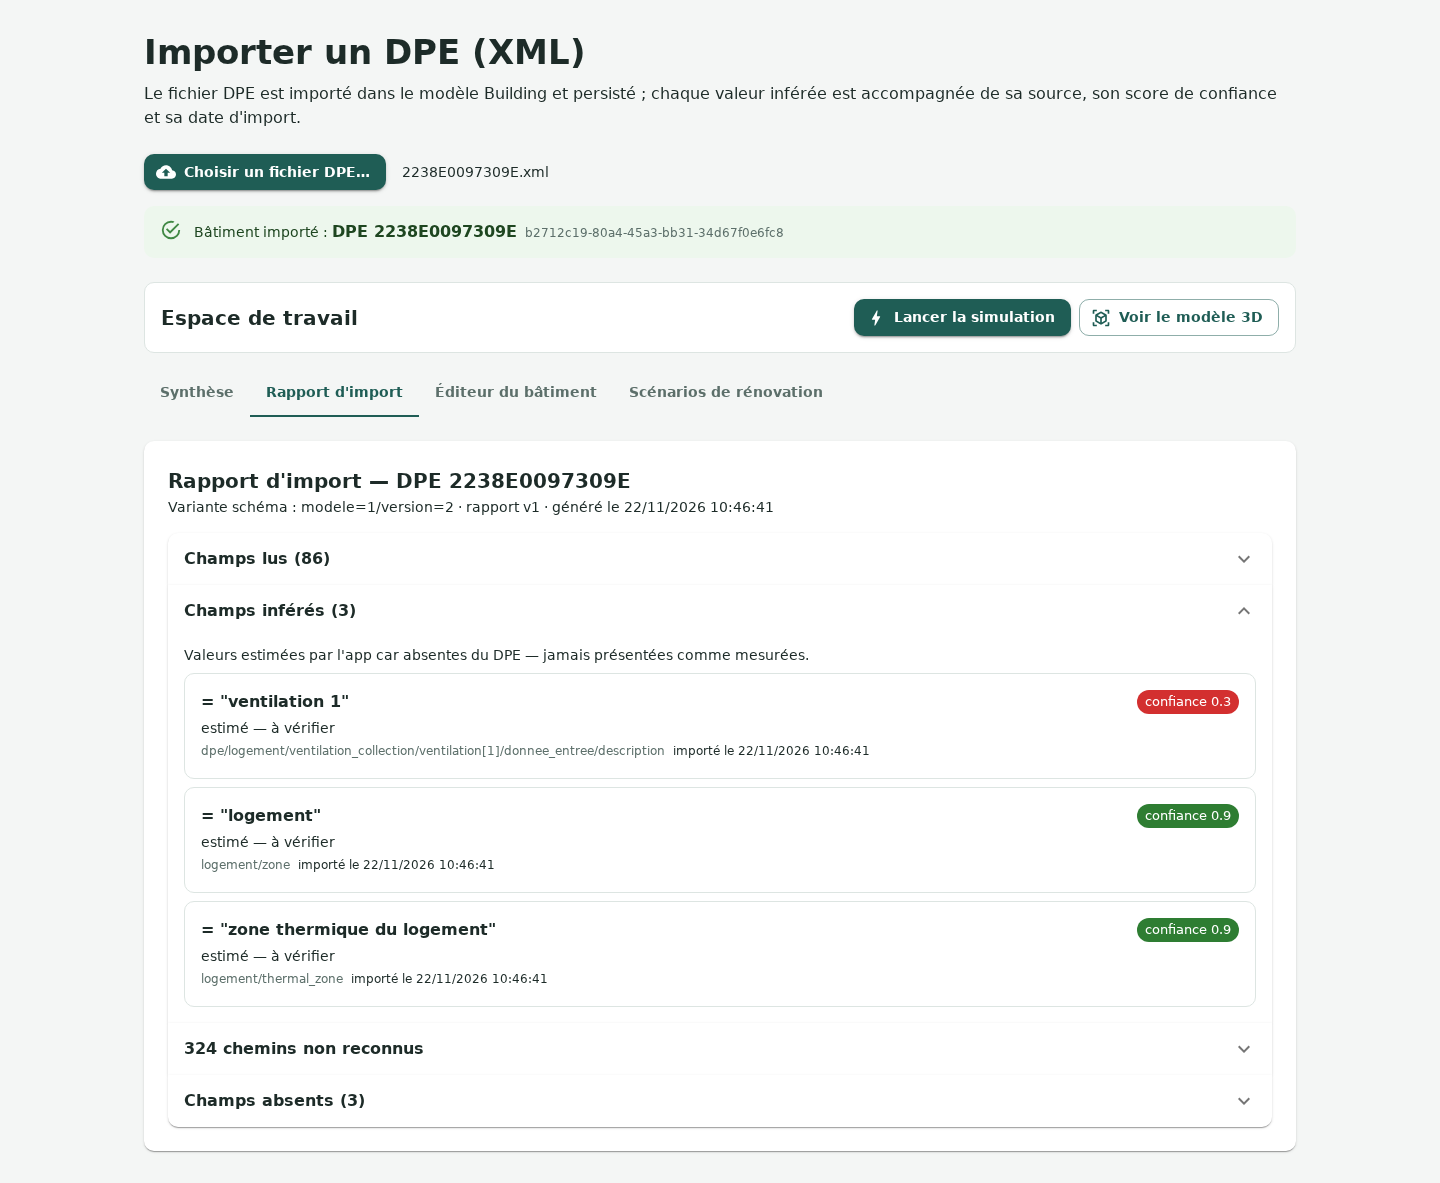
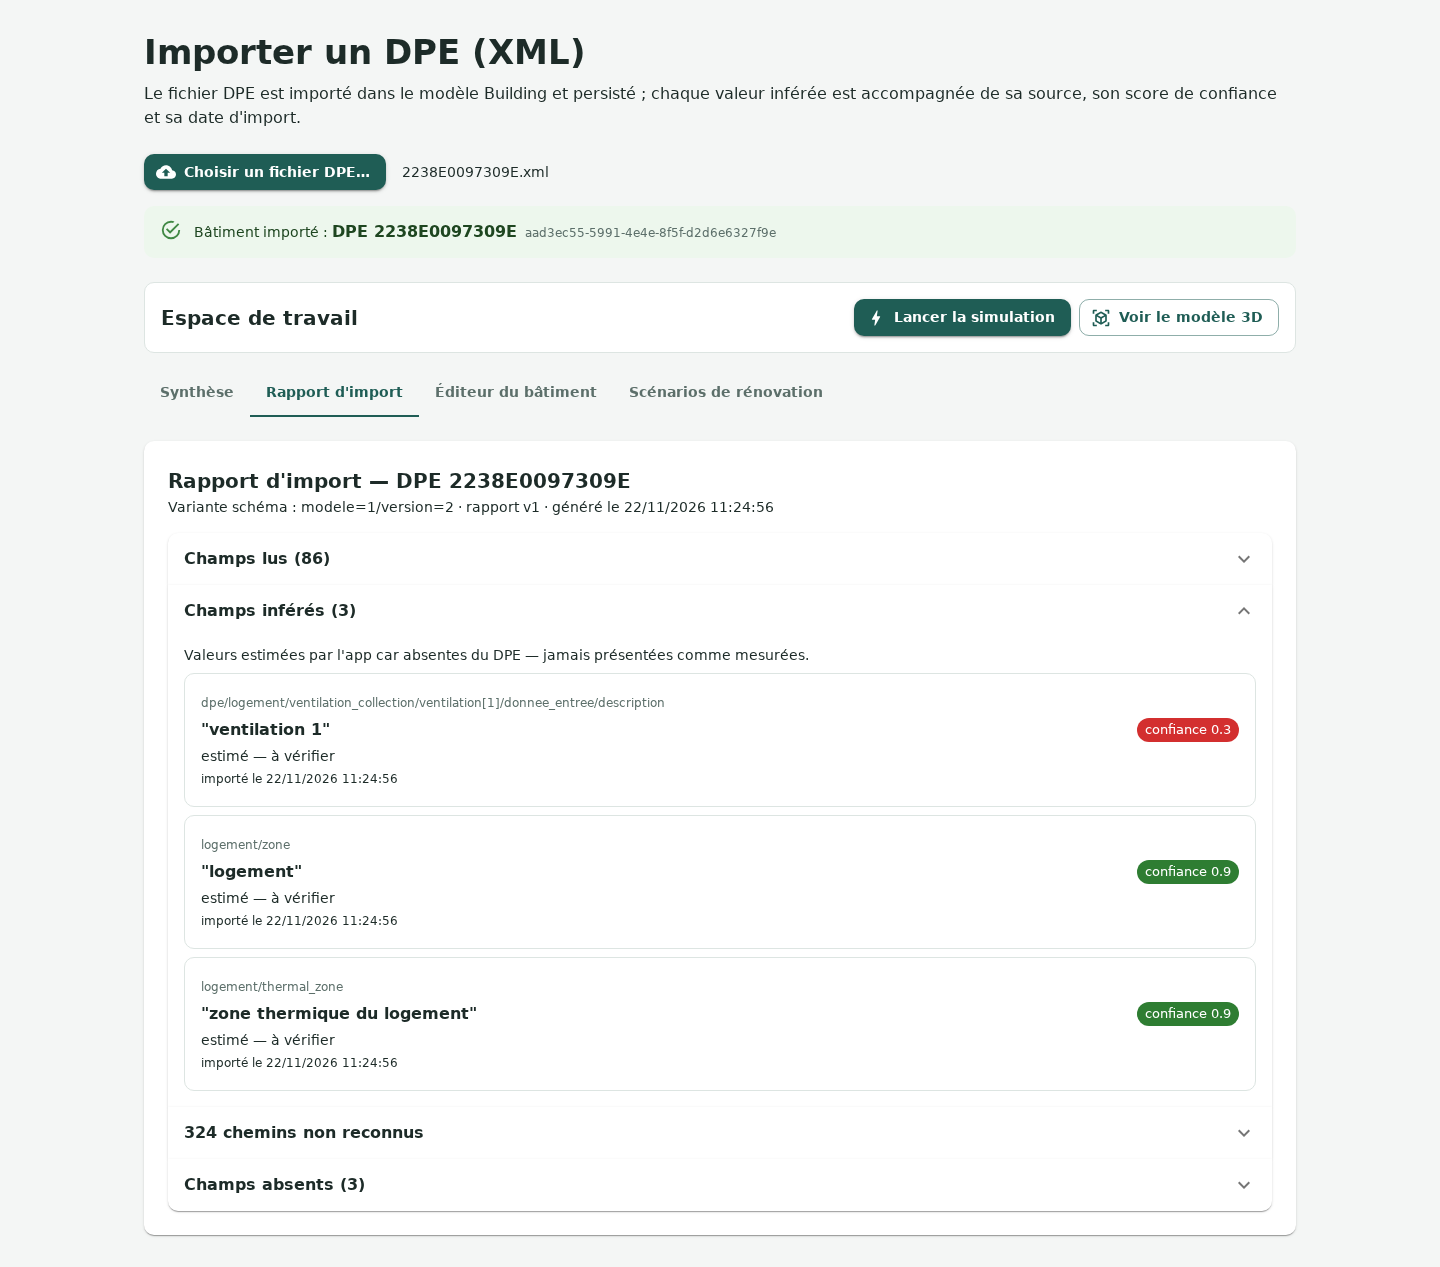
fix(web): address PR #38 review nits — report row/card layout, deferred revokeObjectURL, guide quotes
- Parsed-field rows now read path-first (monospace <code>, never primary
  text per US 11) with the value below, instead of value-first.
- Inferred cards lead with the monospace field path and show the value
  without a leading '='; provenance in plain words, confidence chip and
  import date unchanged.
- URL.revokeObjectURL is deferred to the next tick after the download
  click, so the blob URL is not revoked synchronously.
- docs/user-guide.md: §2 step 2 banner quote now matches the new
  « Bâtiment importé : DPE <numéro> » banner; §6 panel title quote no
  longer carries the internal (P5) tag.
- After screenshots re-captured (docs/audits/assets/wave1-a2-after-*).

diff --git a/apps/web/src/components/ImportReportView.tsx b/apps/web/src/components/ImportReportView.tsx
@@ -52,9 +52,10 @@ function InferredCard({ field }: { readonly field: InferredField }) {
   return (
     <Card variant="outlined" data-testid="inferred-card">
       <CardContent sx={{ '&:last-child': { pb: 2 } }}>
-        <Stack direction="row" sx={{ alignItems: 'center', justifyContent: 'space-between', gap: 1 }}>
+        <XmlPath path={field.path} />
+        <Stack direction="row" sx={{ alignItems: 'center', justifyContent: 'space-between', gap: 1, mt: 0.5 }}>
           <Typography variant="body1" sx={{ fontWeight: 600, wordBreak: 'break-word' }}>
-            = {JSON.stringify(field.value)}
+            {JSON.stringify(field.value)}
           </Typography>
           <Chip
             size="small"
@@ -66,12 +67,9 @@ function InferredCard({ field }: { readonly field: InferredField }) {
         <Typography variant="body2" sx={{ mt: 0.5 }}>
           {confidenceInWords({ source: field.source, confidence: field.confidence })}
         </Typography>
-        <Stack direction="row" sx={{ alignItems: 'baseline', gap: 1, mt: 0.5, flexWrap: 'wrap' }}>
-          <XmlPath path={field.path} />
-          <Typography variant="caption" color="text.secondary">
-            importé le {new Date(field.importDate).toLocaleString('fr-FR')}
-          </Typography>
-        </Stack>
+        <Typography variant="caption" color="text.secondary" sx={{ display: 'block', mt: 0.5 }}>
+          importé le {new Date(field.importDate).toLocaleString('fr-FR')}
+        </Typography>
       </CardContent>
     </Card>
   );
@@ -113,7 +111,7 @@ export function ImportReportView({ report }: { readonly report: ImportReportJson
     link.href = url;
     link.download = `chemins-non-reconnus-${report.dpeNumber ?? 'dpe'}.txt`;
     link.click();
-    URL.revokeObjectURL(url);
+    setTimeout(() => URL.revokeObjectURL(url), 0);
   };
 
   return (
@@ -134,7 +132,12 @@ export function ImportReportView({ report }: { readonly report: ImportReportJson
           <List dense sx={{ maxHeight: 260, overflow: 'auto' }} data-testid="parsed-list">
             {report.parsedFields.map((field) => (
               <ListItem key={field.path}>
-                <ListItemText primary={field.value} secondary={<XmlPath path={field.path} />} />
+                <Box sx={{ width: '100%' }}>
+                  <XmlPath path={field.path} />
+                  <Typography variant="body2" sx={{ wordBreak: 'break-word' }}>
+                    {field.value}
+                  </Typography>
+                </Box>
               </ListItem>
             ))}
           </List>

diff --git a/docs/user-guide.md b/docs/user-guide.md
@@ -12,7 +12,7 @@ TODO: add screenshots of the import page, editor panel and comparison table when
 ## 2. Import your DPE (XML)
 
 1. On the home page (« Importer un DPE (XML) »), click **« Choisir un fichier DPE… »** and select your DPE file (`.xml`).
-2. The file is imported in under a second. A success banner shows « Bâtiment importé : `<id>` » and the **workspace** opens on the **« Synthèse »** tab. Four tabs organize the building: **« Synthèse »**, **« Rapport d'import »**, **« Éditeur du bâtiment »**, **« Scénarios de rénovation »**. The workspace header always shows the primary action **« Lancer la simulation »** and the link **« Voir le modèle 3D »**. The « Synthèse » tab shows the latest simulation summary at the top, plus the values that had to be estimated, marked « estimé — à vérifier »; the full field-by-field import report is in the **« Rapport d'import »** tab.
+2. The file is imported in under a second. A success banner shows « Bâtiment importé : DPE <numéro du DPE> » (e.g. « DPE 2238E0097309E »), with the raw building id in small monospace next to it, and the **workspace** opens on the **« Synthèse »** tab. Four tabs organize the building: **« Synthèse »**, **« Rapport d'import »**, **« Éditeur du bâtiment »**, **« Scénarios de rénovation »**. The workspace header always shows the primary action **« Lancer la simulation »** and the link **« Voir le modèle 3D »**. The « Synthèse » tab shows the latest simulation summary at the top, plus the values that had to be estimated, marked « estimé — à vérifier »; the full field-by-field import report is in the **« Rapport d'import »** tab.
 3. An invalid file shows an error banner and nothing is saved.
 
 ### Reading the import report
@@ -52,7 +52,7 @@ TODO: screenshot of the editor dialog with a field error, and of the audit trail
 
 ## 6. Compare renovation scenarios (P5) — golden path
 
-The panel « Scénarios de rénovation (P5) » lets you price several renovation packages before doing any work.
+The panel « Scénarios de rénovation » lets you price several renovation packages before doing any work.
 
 1. Create a scenario: name + description (e.g. « Isolation des murs »), then **« Ajouter une commande »** → pick an element (e.g. a wall) and a change (e.g. U = 0.2 W/m².K). Click **« Créer le scénario »**. The scenario appears in the list.
 2. Click **« Simuler »** on a scenario: it is simulated through the same regulatory engine as the current building.
